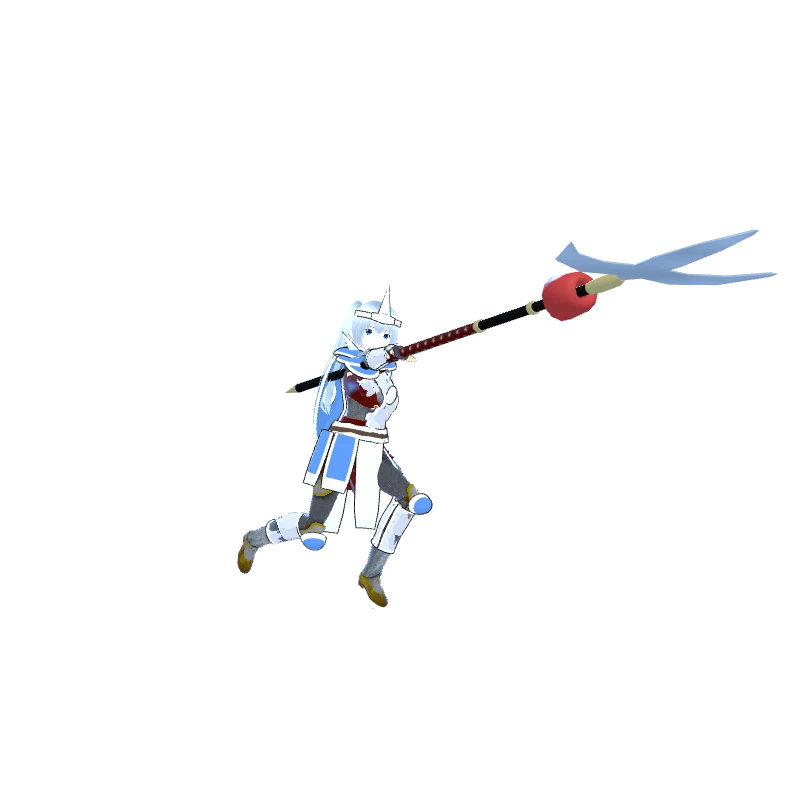
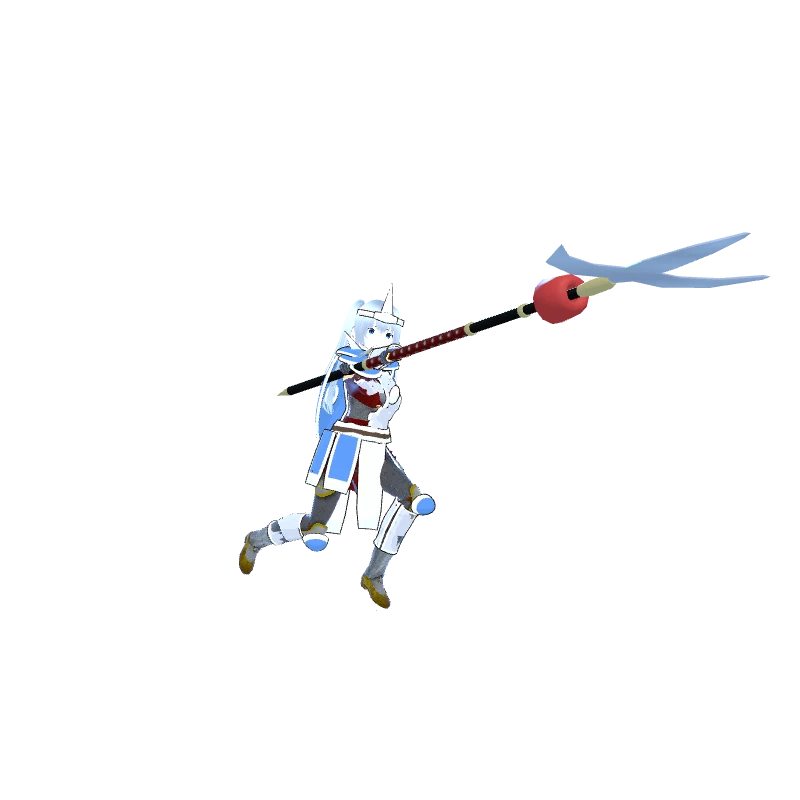
手の向き・柄のめり込み・関節を全員まとめて点検して直す (v1.17.3)
- tools/joint-check.mjs: 全員・全技を再生して、手の向き・左手と柄の距離・手首/肘/膝・腕の胴へのめり込みを数える点検ツール
- 右手: 前腕と柄が一直線に近い時も手の向きを決める(前の場面を引き継ぐ)。ずれ最大90° → 16°
- 左手: 手首を回したあとの拳の中心で腕を合わせ直し、柄が指や手のひらを貫かないように。届かない時は柄から手を離し、体の外側へ下ろす(握り直しは滑らかに)。握っている間のずれ 最大25〜40cm → 6cm前後
- 届かない時は左肩を少し前へ出す。左肘は胴から一番離れる向きに張る
- 手首の折れを90°までに抑える
- 大太刀(レイガ)の左手の向きを元に戻し、待機を両手で持つ中段の構えに
- ガンドウは腕を少し外へ開く(armOut)。腕の胴へのめり込み 11% → 2%
- 決めポーズを撮り直し

Changed region(s): [[0.2812, 0.375, 0.5938, 0.75], [0.625, 0.2812, 0.9688, 0.4062], [0.9062, 0.2812, 0.9375, 0.3125]]

diff --git a/src/vrmchar.js b/src/vrmchar.js
@@ -51,7 +51,8 @@ export async function loadVrm(id) {
 
 const _q = new THREE.Quaternion(), _p = new THREE.Vector3(), _v = new THREE.Vector3(), _w = new THREE.Vector3();
 const _f = new THREE.Vector3(), _g = new THREE.Vector3(), _x = new THREE.Vector3(), _y = new THREE.Vector3(), _m = new THREE.Matrix4();
-const _C1 = new THREE.Vector3(), _C2 = new THREE.Vector3();
+const _q0 = new THREE.Quaternion(), _q1 = new THREE.Quaternion(), _q2 = new THREE.Quaternion(), _q3 = new THREE.Quaternion(), _eu = new THREE.Euler();
+const _C1 = new THREE.Vector3(), _C2 = new THREE.Vector3(), _T3 = new THREE.Vector3(), _T4 = new THREE.Vector3(), _F = new THREE.Vector3(), _H2 = new THREE.Vector3();
 const _hq = new THREE.Quaternion(), _pq = new THREE.Quaternion(), _rq = new THREE.Quaternion();
 const _S = new THREE.Vector3(), _E = new THREE.Vector3(), _H = new THREE.Vector3(), _T = new THREE.Vector3(), _u = new THREE.Vector3(), _n = new THREE.Vector3(), _dq = new THREE.Quaternion(), _wq = new THREE.Quaternion();
 const CL = new THREE.Quaternion().setFromAxisAngle(new THREE.Vector3(0, 0, 1), -Math.PI / 2);   // 左腕: +X → 下向き
@@ -164,6 +165,8 @@ export class VrmBody {
     for (const [b, parents, j, c] of MAP) {
       const node = N[b]; if (!node) continue;
       const want = (D[b] || (D[b] = new THREE.Quaternion())).copy(Q[j]).multiply(c);
+      // 体の太い武将は腕を外へ少し開く(胴にめり込まないように)
+      if (this.model.armOut && (b === 'leftUpperArm' || b === 'rightUpperArm')) want.premultiply(_dq.setFromAxisAngle(_v.set(0, 0, 1), THREE.MathUtils.degToRad(b === 'leftUpperArm' ? this.model.armOut : -this.model.armOut)));
       let par = null; for (const pb of parents) if (N[pb]) { par = D[pb]; break; }
       if (par) node.quaternion.copy(_q.copy(par).invert().multiply(want)); else node.quaternion.copy(want);
     }
@@ -186,8 +189,22 @@ export class VrmBody {
     // 両手持ち: VRMの腕の長さで左手を柄に届かせる(元リグの角度を写すだけだと届かない)
     if (two) {
       this.wR.updateMatrixWorld(true);
-      this._reach(this._leftGrip(dt));
+      const T = _T3.copy(this._leftGrip(dt));
+      // 腕が届かない時は柄から手を離し、届くようになったら握り直す(伸ばしきった手が柄の近くで浮かないように)
+      N.leftUpperArm.getWorldPosition(_S);
+      const reach = this._armLen ? T.distanceTo(_S) / (this._armLen + 0.04 * this.k * this.model.root.scale.x) : 0;   // 肩を出せば少し遠くまで届く
+      this._lw = this._lw === undefined ? 1 : this._lw + ((reach < 1.04 ? 1 : 0) - this._lw) * (1 - Math.exp(-(dt || 0.016) * 10));
+      // 柄から手を離している間の左腕: 体の外側へ下ろし、肘を軽く曲げて勢いをとる姿勢(胴を横切らない)
+      const keep = this._lw < 0.999 ? [_q0.identity(), _q1.setFromEuler(_eu.set(0.35, 0.3, -0.95)), _q2.setFromEuler(_eu.set(0, -0.7, 0)), _q3.identity()].map((q) => q.clone()) : null;
+      this._reach(T);
       this._grip('leftHand', 'leftLowerArm', Q.handR, true);
+      // 手首を回すと拳の中心がずれるので、実際の拳の中心と柄のずれを測って腕を合わせ直す(柄が指や手のひらを貫かないように)
+      for (let it = 0; it < 2; it++) {
+        this._fistCenter(true, _F); N.leftHand.getWorldPosition(_H2);
+        this._reach(_H2.add(_T4.copy(T).sub(_F)), false);
+        this._grip('leftHand', 'leftLowerArm', Q.handR, true);
+      }
+      if (keep) ['leftShoulder', 'leftUpperArm', 'leftLowerArm', 'leftHand'].forEach((b, i) => N[b].quaternion.copy(keep[i].slerp(N[b].quaternion, this._lw)));   // 離した姿勢 → 握った姿勢 を握る量で混ぜる
       this.vrm.humanoid.update();
     }
     updateArmor(this.vrm, this.model.two);   // 両手武器の間は盾を背中へ
@@ -222,9 +239,10 @@ export class VrmBody {
     N.leftUpperArm.getWorldPosition(_S); N.hips.getWorldPosition(_C1); N.head.getWorldPosition(_C2);
     const torso = _C2.distanceTo(_C1) || 0.6, rb = torso * 0.36;
     _C2.addScaledVector(_v.copy(_C2).sub(_C1).normalize(), torso * 0.3);                 // 頭のてっぺんまで
-    if (!this._armLen) {                                                                  // 腕の長さ(肩→肘→拳)
+    if (!this._armLen) {                                                                  // 腕の長さ(肩→肘→手首→拳の中心)
       N.leftLowerArm.getWorldPosition(_E); N.leftHand.getWorldPosition(_H);
-      this._armLen = _S.distanceTo(_E) + _E.distanceTo(_H) * 1.25;
+      const mid = this.vrm.humanoid.getNormalizedBoneNode('leftMiddleProximal');
+      this._armLen = _S.distanceTo(_E) + _E.distanceTo(_H) + (mid ? mid.getWorldPosition(_v).distanceTo(_H) * 0.62 : 0);
     }
     let best = Infinity, bt = g0;
     for (let i = 0; i <= 16; i++) {
@@ -240,14 +258,32 @@ export class VrmBody {
     this._gt = this._gt === undefined ? bt : this._gt + (bt - this._gt) * (1 - Math.exp(-(dt || 0.016) * 14));
     return this.wR.localToWorld(_T.set(0, this._gt, 0));
   }
-  _reach(T) {
+  // 拳の中心(柄が通る穴): 手首から指の付け根へ 62%、さらに手のひら側へ少し
+  _fistCenter(left, out) {
+    const node = this.N[left ? 'leftHand' : 'rightHand'], mid = this.vrm.humanoid.getNormalizedBoneNode(left ? 'leftMiddleProximal' : 'rightMiddleProximal');
+    node.getWorldPosition(out); if (!mid) return out;
+    mid.getWorldPosition(_v); out.lerp(_v, 0.62); node.getWorldQuaternion(_hq);
+    return out.addScaledVector(_y.set(0, -1, 0).applyQuaternion(_hq), 0.018 * this.k * this.model.root.scale.x);
+  }
+  _reach(T, fist = true) {
     const N = this.N, up = N.leftUpperArm, lo = N.leftLowerArm, hd = N.leftHand;
     if (!up || !lo || !hd) return;
     up.getWorldPosition(_S); lo.getWorldPosition(_E); hd.getWorldPosition(_H);
     // 手首ではなく拳の中心を柄に合わせる
     const mid = this.vrm.humanoid.getNormalizedBoneNode('leftMiddleProximal');
-    let off = 0; if (mid) { mid.getWorldPosition(_v); off = _v.distanceTo(_H) * 0.62; }
-    const a = _S.distanceTo(_E), b = _E.distanceTo(_H) + off;
+    let off = 0; if (mid && fist) { mid.getWorldPosition(_v); off = _v.distanceTo(_H) * 0.62; }
+    let a = _S.distanceTo(_E), b = _E.distanceTo(_H) + off;
+    // 届かない時は左肩(鎖骨)を目標の方へ少し出して、腕の付け根ごと近づける(最大25°)
+    const sh = N.leftShoulder;
+    if (sh && _S.distanceTo(T) > (a + b) * 0.97) {
+      sh.getWorldPosition(_C1); const from = _C2.copy(_S).sub(_C1), to = _v.copy(T).sub(_C1);
+      const need = Math.min(1, (_S.distanceTo(T) - (a + b) * 0.97) / Math.max(1e-4, from.length() * 0.45));
+      _dq.setFromUnitVectors(from.clone().normalize(), to.normalize()); _wq.identity().slerp(_dq, need);
+      const ang = 2 * Math.acos(Math.min(1, Math.abs(_wq.w))), lim = THREE.MathUtils.degToRad(25);
+      if (ang > lim) _wq.slerpQuaternions(new THREE.Quaternion(), _wq, lim / ang);
+      sh.getWorldQuaternion(_hq); _hq.premultiply(_wq); sh.parent.getWorldQuaternion(_pq); sh.quaternion.copy(_pq.invert().multiply(_hq)); sh.updateMatrixWorld(true);
+      up.getWorldPosition(_S); lo.getWorldPosition(_E); hd.getWorldPosition(_H); a = _S.distanceTo(_E); b = _E.distanceTo(_H) + off;
+    }
     const dist = _S.distanceTo(T); if (dist < 1e-4) return;
     const d = Math.min(dist, (a + b) * 0.999), u = _u.copy(T).sub(_S).normalize();
     // 肘を出す向き: 体の外側と下へ張る(内側に入ると腕が胸や顔にめり込む)。今の肘の向きも少し残す
@@ -258,6 +294,20 @@ export class VrmBody {
     if (_n.lengthSq() < 1e-8) _n.set(0, -1, 0).addScaledVector(u, -u.y);
     _n.normalize();
     const cosA = THREE.MathUtils.clamp((a * a + d * d - b * b) / (2 * a * d), -1, 1), sinA = Math.sqrt(1 - cosA * cosA);
+    // 肘の位置: 基本の向き(外・下)から ±90° の範囲で回して、胴の芯から一番離れる所を選ぶ(太い胴に肘がめり込まないように)
+    if (N.hips && N.neck) {
+      N.hips.getWorldPosition(_C1); N.neck.getWorldPosition(_C2); const tax = _C2.sub(_C1);
+      const torsoDist = (p) => { const k = THREE.MathUtils.clamp(_v.copy(p).sub(_C1).dot(tax) / tax.lengthSq(), 0, 1); return p.distanceTo(_v.copy(_C1).addScaledVector(tax, k)); };
+      const Rt = torsoDist(_S) * 0.95, base = _n.clone(), side = _f.crossVectors(u, base).normalize();
+      let best = -1e9, bn = null;
+      for (let i = -6; i <= 6; i++) {
+        const ph = i * Math.PI / 12, cand = base.clone().multiplyScalar(Math.cos(ph)).addScaledVector(side, Math.sin(ph));
+        const e = _g.copy(_S).addScaledVector(u, a * cosA).addScaledVector(cand, a * sinA);
+        const sc = Math.min(1, torsoDist(e) / Rt) - Math.abs(ph) / Math.PI * 0.25;
+        if (sc > best) { best = sc; bn = cand; }
+      }
+      _n.copy(bn);
+    }
     const elbow = _w.copy(_S).addScaledVector(u, a * cosA).addScaledVector(_n, a * sinA);
     // 上腕: 今の向き → 新しい肘の向き へ回す
     const rot = (node, from, to) => {
@@ -277,15 +327,27 @@ export class VrmBody {
     hand.getWorldPosition(_w); arm.getWorldPosition(_v);
     const f = _f.copy(_w).sub(_v).normalize();                  // 前腕の向き
     const g = _g.set(0, 1, 0).applyQuaternion(q).applyQuaternion(_rq).normalize();   // 武器の柄の向き
-    const d = f.dot(g); if (Math.abs(d) > 0.96) return;
-    f.addScaledVector(g, -d).normalize();                       // 指の向き(柄と直交)
+    const lf = (this._lf || (this._lf = {}))[bone] || (this._lf[bone] = new THREE.Vector3(0, -1, 0));
+    let d = f.dot(g);
+    if (Math.abs(d) > 0.9) {                                    // 前腕と柄がほぼ一直線: 前の場面の指の向きへ寄せる
+      const k = (Math.abs(d) - 0.9) / 0.1; f.lerp(lf, Math.min(1, k)).normalize(); d = f.dot(g);
+      if (Math.abs(d) > 0.98) { f.copy(lf); d = f.dot(g); }
+    }
+    f.addScaledVector(g, -d);
+    if (f.lengthSq() < 1e-6) f.set(0, -1, 0).addScaledVector(g, -g.y);
+    f.normalize(); lf.copy(f);                                  // 指の向き(柄と直交)
     // 手のローカルX(右手は指が -X)。両手持ちの左手は、柄の軸まわりに裏返して右手と同じ側から巻く(手の甲が同じ向き)
-    const flip = left && this.model.two && !this.model.dual ? (window.__lgFlip ?? 2) : 0;
+    // 大太刀(レイガ)は元の向きのまま。長柄の武器だけ裏返す
+    const flip = left && this.model.two && !this.model.dual && this.model.wtype !== 'sword' ? (window.__lgFlip ?? 2) : 0;
     const xw = left ? (flip === 1 ? _x.copy(f).negate() : f) : _x.copy(f).negate();
     const yw = _y.crossVectors(g, xw).normalize();
     if (flip === 2) { yw.negate(); g.negate(); }
     _m.makeBasis(xw, yw, g);
     _hq.setFromRotationMatrix(_m);
+    // 手首の折れは 90° まで(それ以上は柄とのずれを少し許して、手首を前腕の方へ戻す)
+    const fore = _C1.copy(_w).sub(_v).normalize(), fing = _C2.set(left ? 1 : -1, 0, 0).applyQuaternion(_hq);
+    const ang = fore.angleTo(fing), lim = Math.PI / 2;
+    if (ang > lim) { const axis = fing.clone().cross(fore).normalize(); if (axis.lengthSq() > 0.5) _hq.premultiply(_dq.setFromAxisAngle(axis, ang - lim)); }
     hand.parent.getWorldQuaternion(_pq);
     hand.quaternion.copy(_pq.invert().multiply(_hq));
   }

diff --git a/src/models.js b/src/models.js
@@ -18,7 +18,7 @@ export const RESTS = {
 };
 // 立ち止まっている時の構え(武器ごと)
 export const IDLES = {
-  sword:  { stance: 0.5, crouch: 0.08, lean: 10, tw: -25, head: 20, az: -25, el: -62, bend: 25, wr: 25, azL: 45, elL: -62, bendL: 50 },
+  sword:  { stance: 0.5, crouch: 0.08, lean: 10, tw: -15, head: 14, az: -8, el: -48, bend: 45, wr: 40, azL: 45, elL: -62, bendL: 50 },   // 両手で持つ中段の構え
   spear:  { stance: 0.5, crouch: 0.08, lean: 6, tw: -30, head: 24, az: -20, el: -40, bend: 60, wr: 70 },
   twin:   { stance: 0.55, crouch: 0.12, lean: 14, tw: -10, head: 8, az: -40, el: -45, bend: 70, wr: 40, azL: 40, elL: -45, bendL: 70, wrL: 40 },
   hammer: { stance: 0.6, crouch: 0.1, lean: 6, tw: -10, head: 10, az: -12, el: -50, bend: 15, wr: 175 },
@@ -388,7 +388,7 @@ export function buildHero(look, wtype, tier = 0) {
   J.root.scale.setScalar(L.scale);
 
   return {
-    root: J.root, J, M, dang, scale: L.scale, wtype, two: W.two, dual: W.dual, armor: L.armor || '', spiky: !!L.vrmSpiky, pal: P, motion: L.motion || 1,
+    root: J.root, J, M, dang, scale: L.scale, wtype, two: W.two, dual: W.dual, armor: L.armor || '', spiky: !!L.vrmSpiky, pal: P, motion: L.motion || 1, armOut: L.armOut || 0,
     // 両手持ちで左手が握れる柄の範囲(右手からの距離, m)。この中で体にめり込まない位置を毎フレーム選ぶ
     gripRange: { sword: [-0.19, -0.08], spear: [-0.75, 0.75], hammer: [-0.42, 0.6], axe: [-0.48, 0.6], scythe: [-0.72, 0.75] }[wtype] || null, run: RUNS[wtype] || RUNS.sword, oneRun: !!(RUNS[wtype] && RUNS[wtype].one),   // oneRun: 走る時は片手で持つ
     tip: new THREE.Vector3(...W.tip), base: new THREE.Vector3(...W.base), grip: new THREE.Vector3(...W.grip),

diff --git a/src/data.js b/src/data.js
@@ -32,7 +32,7 @@ export const HEROES = [
   { id: 'gandou', name: 'ガンドウ', title: '砕地の豪傑', wtype: 'hammer', wname: '大槌', elem: 'earth',
     desc: '一撃の重さは随一。攻撃中は怯まず、大地ごと敵を叩き潰す。',
     base: { hp: 1400, atk: 44, def: 40, spd: 6.6, aspd: 0.9 }, stars: [5, 4, 1, 5], heavy: true,
-    look: { motion: 2, armor: 'heavy', scale: 1.2, sw: 0.3, bulk: 1.42, headScale: 1.02, hair: 'bald', beard: true, gear: 'horn', cape: '', pauldron: 2, tasset: 'plate', tails: 1, arms: 'bare', fur: true,
+    look: { motion: 2, armOut: 12, armor: 'heavy', scale: 1.2, sw: 0.3, bulk: 1.42, headScale: 1.02, hair: 'bald', beard: true, gear: 'horn', cape: '', pauldron: 2, tasset: 'plate', tails: 1, arms: 'bare', fur: true,
       pal: { skin: '#c89064', hair: '#3b2a1c', c1: '#8a5c30', c2: '#2c2520', c3: '#d38a2c', metal: '#a08a66', gold: '#d9a23a', eye: '#2a1608' } } },
   { id: 'fuuka', name: 'フウカ', title: '翠嵐の舞姫', wtype: 'fan', wname: '双扇', elem: 'wind',
     desc: '風の刃を放つ遠距離型。舞うように敵を寄せ集め、まとめて吹き飛ばす。',

diff --git a/sw.js b/sw.js
@@ -1,6 +1,6 @@
 // サービスワーカー: 全ファイルをキャッシュしてオフラインでも遊べるようにする
 // ※ ゲームを更新したら CACHE の番号を上げてください(古いキャッシュが破棄されます)
-const CACHE = 'seiga-v1.17.2';
+const CACHE = 'seiga-v1.17.3';
 const FILES = [
   './', 'index.html', 'manifest.webmanifest', 'css/style.css', 'vendor/three.module.min.js',
   'icons/icon-192.png', 'icons/icon-512.png', 'icons/icon-maskable-512.png', 'icons/apple-touch-icon.png',

diff --git a/src/config.js b/src/config.js
@@ -4,7 +4,7 @@
 // 空のままでも、ゲーム内「設定」画面から個別にURLを入力できます。
 export const CLOUD_URL = 'https://script.google.com/macros/s/AKfycbwIXAdAaQbAvjuTPs3f40_3I8KxJB3mKbrFkAzfM-IuFDj_kmxqeDuisBGuqbjSZOJp1Q/exec';
 
-export const VERSION = '1.17.2';
+export const VERSION = '1.17.3';
 
 // VRoid のキャラ(VRM)。ファイルを vrm/ フォルダに入れ、武将ID: パス を書くと差し替わります
 // 武将ID: reiga / setsuna / raika / gandou / fuuka / yomi
